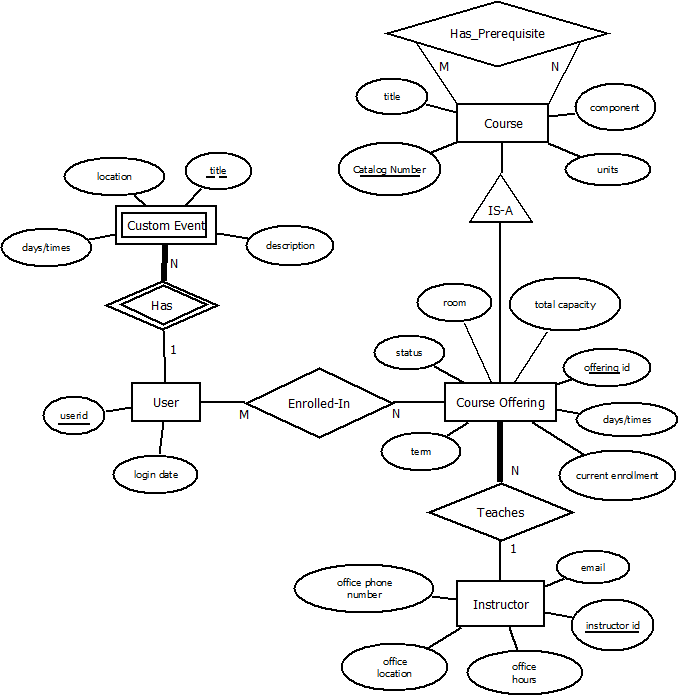
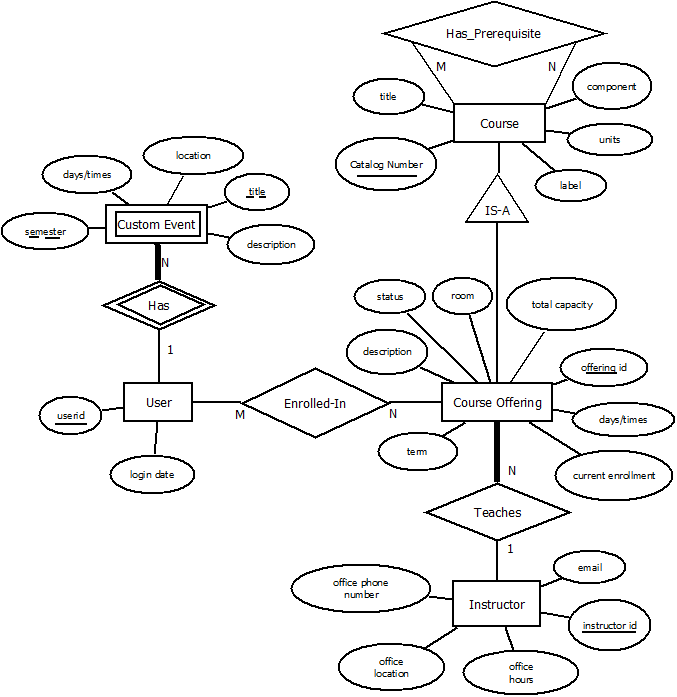
Changes to progress report 1 part

diff --git a/ProgressReport2/ProgressReport2.tex b/ProgressReport2/ProgressReport2.tex
@@ -56,11 +56,15 @@ In order to be a one-stop schedule manager, as well as to remain more feature-co
 \section*{Database Requirements Specifications}
 \subsection*{Objects and Relationships}
 \begin{enumerate}[1.]
-\item Course Offering: The database will have an instance of course offering for each course offered by CWRU. We considered having a overreaching "Course" object where Course Offering is-a Course. However since the purpose of our application is mainly as a scheduler we are more concerned with attribute specific to each offering, namely when the course is held, we decided to just have the course offering. A course offering will have at least the following attributes: offering id, term, subject, catalog number, title, label, component, status, dates, units (max), days/times, room, total capacity, current enrollment, prerequisites, and description.\\\\ In explanation, the "label" attribute corresponds to a short combination of the of the subject, catalog number, and title. The catalog number corresponds to the course number within that courses department (e.g. 314 for EECS 341). The "component" attribute represents the type of the course, whether it's a lecture, recitation, or similar. The "status" attribute represents whether the course is  open, closed, or other. "Current Enrollment" signifies how many other students are registered for the course offering. "Description" is a paragraph explanation of the course provided by the department or professor.
+\item Course Offering: The database will have an instance of course offering for each course offered by CWRU. Every course offering is-a course, which is described below. This entity it important to our application because a course offering is the typical item that a user will actually had to his or her schedule. A course offering will have at least the following attributes: offering id, term, subject, status, dates, days/times, room, total capacity, current enrollment, and description.\\\\  In explanation, the "component" attribute represents the type of the course, whether it's a lecture, recitation, or similar. The "status" attribute represents whether the course is  open, closed, or other, which is important for a user to know when scheduling for a certain course. "Current Enrollment" signifies how many other students are registered for the course offering. "Description" is a paragraph explanation of the course provided by the department or professor, also important info for a user browsing through various courses.
+\item Course: every course offering is-a course. A course entity is useful to have for this application because it will allows the application to more easily display all of the course offering for a selected course. The course entity will have the following attributes: title, catalog number, component, units (max), and label. In explanation, the "label" attribute corresponds to a short combination of the of the subject, catalog number, and title. The catalog number corresponds to the course number within that courses department (e.g. 314 for EECS 341). Courses will also have prerequisite as specified by the Has\_Prerequisite relationship, detailed below.
+\item Has\_Prerequisite Relationship: This relationship involves only Course entities. Any one course may have multiple prerequisites and may be a prerequisite for multiple courses. This relationship will allow the application to easily display and direct users to what prerequisites a given course may have.
 \item User: Every user will log onto our application with their case id and password (using the single sign on service as provided by CWRU). This process allows us to keep an object representation of each user. This application doesn't need much information about each user, so it will just keep track of the user's case id and last login date. We keep track of their login date so we can safely delete a user and any relationships that user participated in after the user has not logged in for four years.
 \item Instructor: Our application will allows users to find basic information about CWRU instructors, such as office location, office hours, and contact information. To adequately display this information, the instructor object will have at least the following attributes: instructor ID, office location, office hours, phone number, and email.
 \item Teaches Relationship: Every course offering will be taught by an instance of instructor, and this relation models that, simply by storing the id's for the course offering and the instructor that teaches it. We assume a course offering is not taught by more than one instructor, an assumption that is sufficient for a scheduling application.
 \item Enrolled-in Relationship: Multiple students can take multiple different courses, and courses can have many students enrolled in it, up to that courses capacity. This relationship is fairly simple in that it just keeps track of a student and a course that student is enrolled in. However, it is also an extremely important relationship because it allows us to populate a students schedule.
+\item Custom Event: Like the current Case Scheduler, our application will allow users to add their own recurring custom events to the schedule. A good example might be an extra-curricular actives such as band rehearsals or sport practices. As such, the databases needs a separate entity to store these events. This entity will have the following attributes: days/times, location, title, semester, and description. This entity will be a weak entity and each custom event will be connected to a single user through the Has relationship.
+\item Has Relationship: The Has relationship, again, connects users to the custom events they have created. This relationship is a one-to-many relationship, so a user may have many custom events, and it requires full participation on the part of the custom event entities.
 \end{enumerate}
 \subsection*{Queries and Transactions}
 \begin{enumerate}[1.]
@@ -69,6 +73,7 @@ In order to be a one-stop schedule manager, as well as to remain more feature-co
 \item Add\_Course:  Since the application requires that a user build a list of courses, the user will be need to be able to build the list of courses by adding to it.  We will add courses to the user lists using this transaction.  This transaction will take as input the user ID and a course ID and will add the course ID to the list of courses for the user in question.  It will not return anything.  This will be done much less than once per page view, since the average user will need to view their courses more than once, but will only need to add them one time each.
 \item Remove\_Course:  The opposite of Add\_Course, sometimes users will need to remove courses that they've already added.  This will happen even less often than Add\_Course, because most users will only add courses that they plan to view in the future.  Most users do not drop courses, and so most users will only need to add courses.  This will happen far less than once per page view.  This transaction will take as input the User ID and Course ID, and will delete the row from the table pairing users and courses, and will not return anything.
 \item Lookup\_Instructor:  One feature that users might desire is the ability to lookup all courses that a particular instructor is teaching.  This means that we will want to index the courses table by instructor as well as by course ID.  This query will be used much less frequently than the other queries and transactions because the primary feature of the application is display of a calendar, not viewing the courses taught by a particular instructor.  This transaction will take as input the instructor name, and will return a list of course IDs taught by that instructor.
+\item Create\_Event: Users will be allowed to create their own custom events to add to any schedule they desire. The application will use the event's semester attribute to determine which schedule to add the event to.
 \end{enumerate}
 \subsection*{Actions and Events}
 \begin{enumerate}[1.]
@@ -81,6 +86,8 @@ In order to be a one-stop schedule manager, as well as to remain more feature-co
 \item This application may have to handle up to all CWRU community members and several schedules per user. In order to maintain a flexible ceiling on the database, users that have been inactive for more than four years. If a user is removed and one of the course offerings that that user was enrolled in no longer has any users enrolled in it, then that course offering is deleted as well.
 \item If, at any time, a course offering has no users enrolled in it, and the current semester is after the semester that course offering took place in, then that course offering will be removed.
 \item Instructors are allowed to not teach a course offering at any given time. However, if an instructor continuously does not teach a course for five years, then that instructor is removed.
+\item Every custom event must be involved in a Has relationship with some user.
+\item Every course offering must satisfy the is-a course relationship.
 \end{enumerate}
 \section*{ER Diagram}
 \includegraphics[width=120mm]{ERDiagram.png}
@@ -98,8 +105,9 @@ CREATE_TABLE CustomEvent
 	days/times CHAR(20),
 	location CHAR(40),
 	title CHAR(40),
+	semester CHAR(12),
 	description CHAR(120),
-	PRIMARY KEY (userid, title)
+	PRIMARY KEY (userid, title, semester)
 	FOREIGN KEY (userid) REFERENCES User
 		ON DELETE CASCADE
 
@@ -120,6 +128,7 @@ CREATE_TABLE CourseOffering
   days/times CHAR(20),
   current_enrollment INTEGER,
   term CHAR(16),
+  description CHAR(400),
   instructorId CHAR(8) NOT NULL,
   catalogNumber CHAR(12) NOT NULL,
   PRIMARY KEY (coid),
